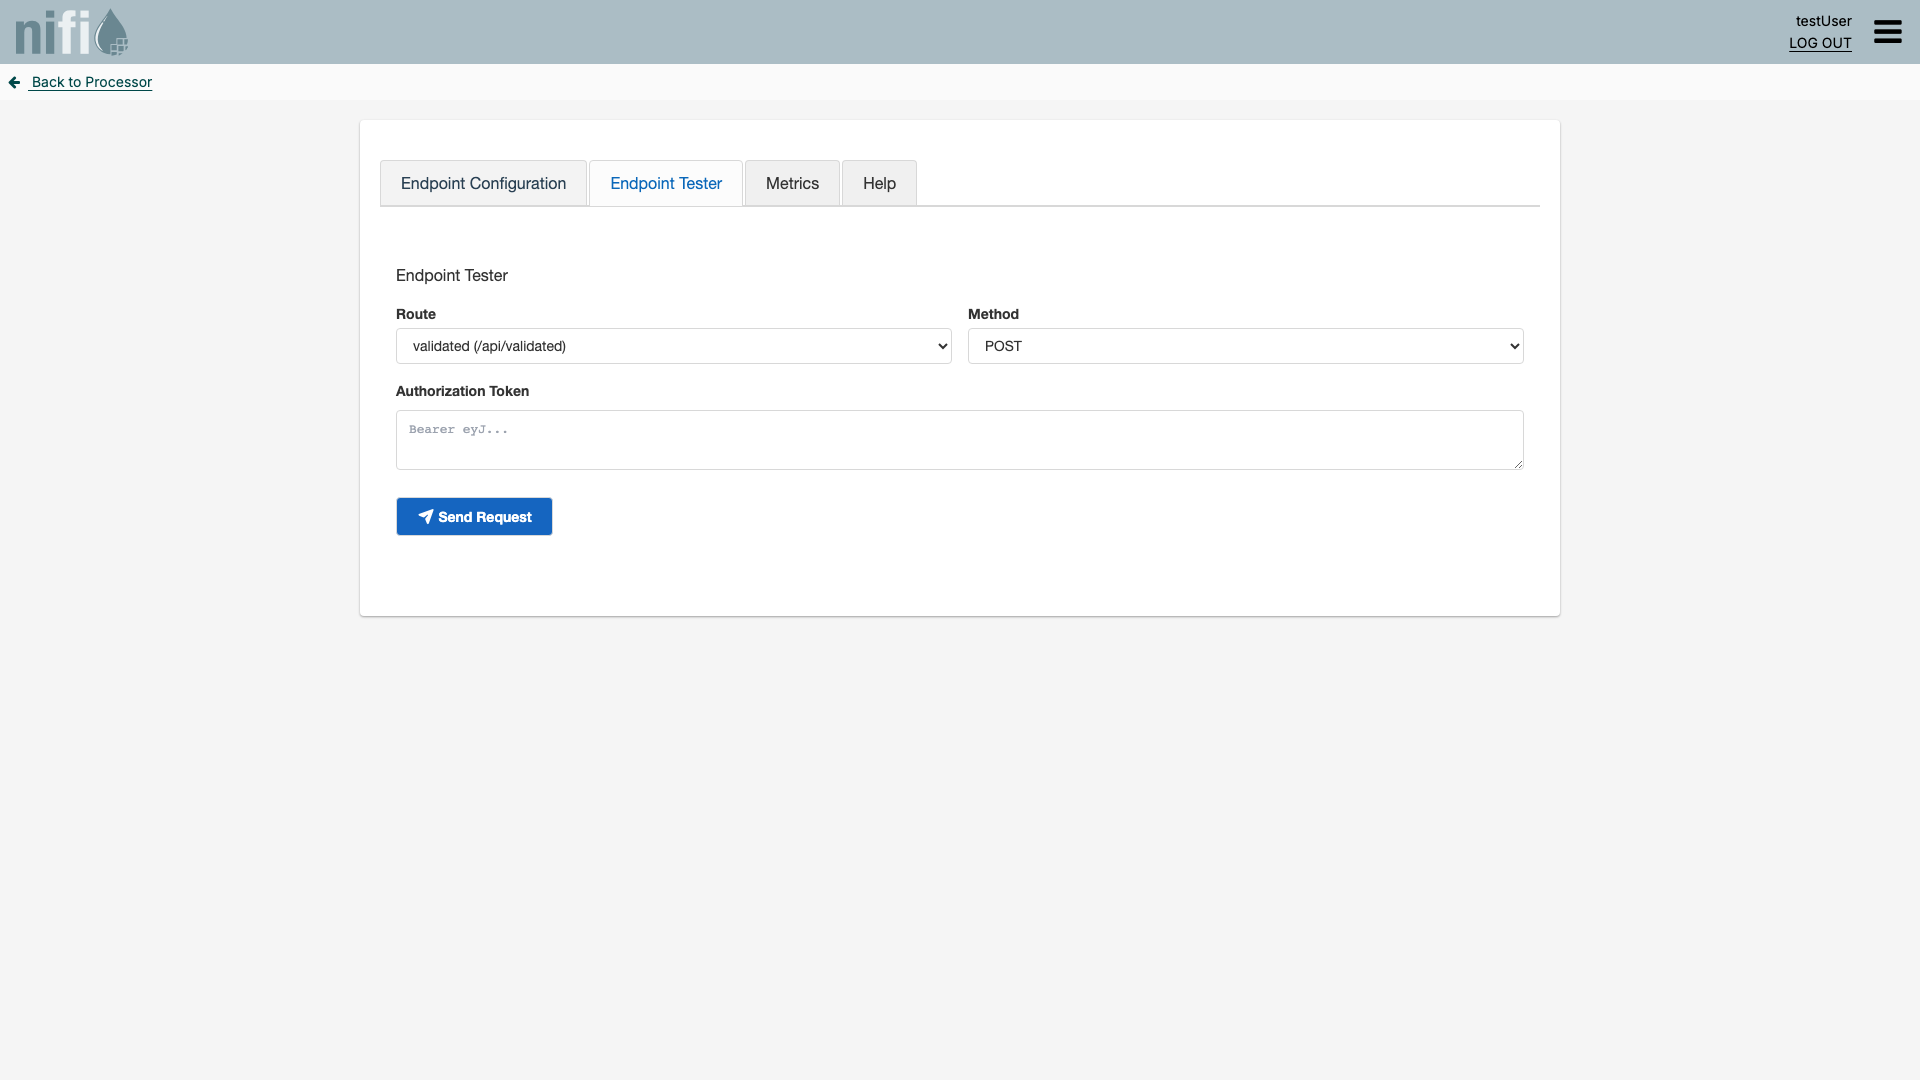
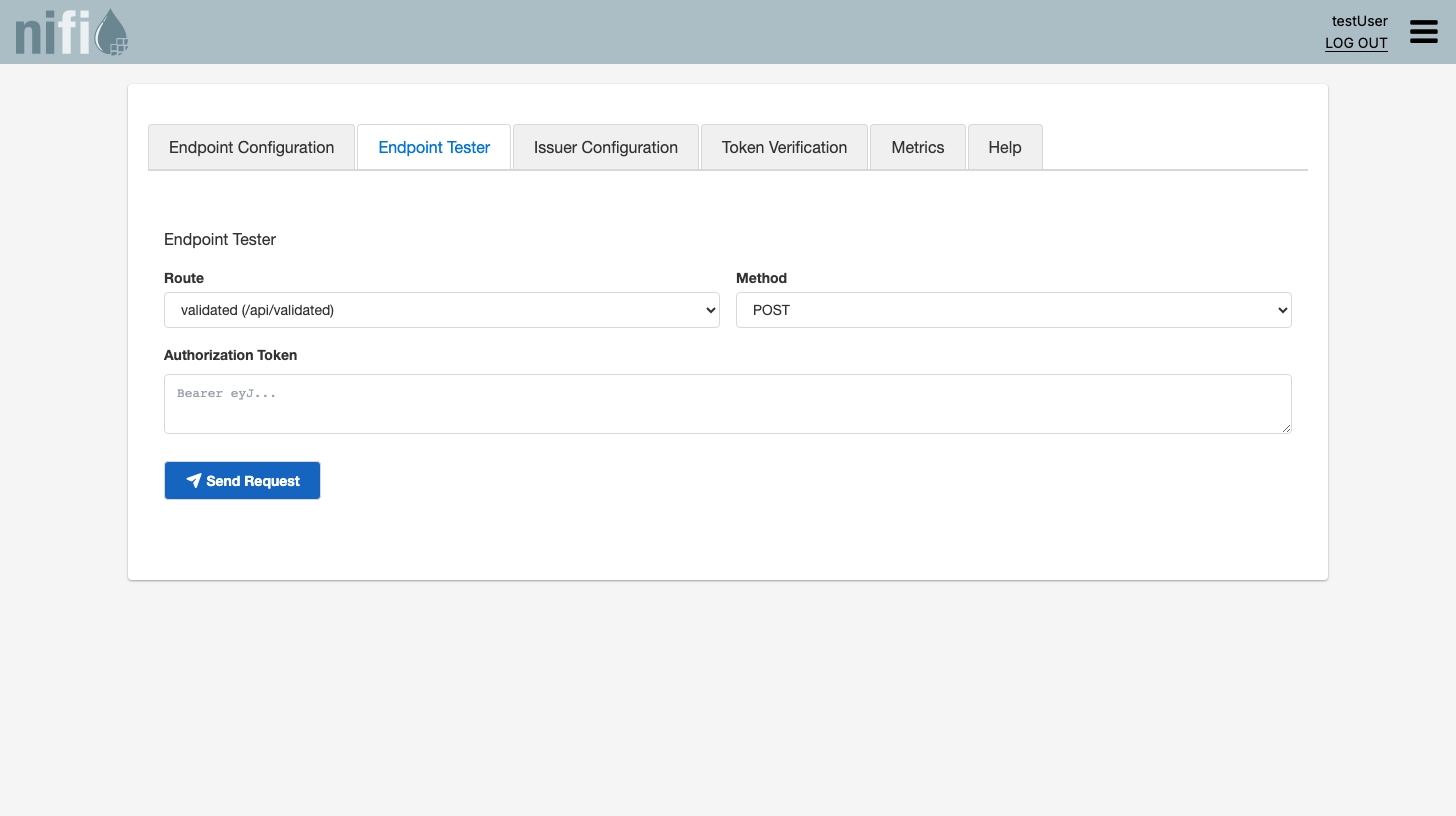
docs: update guides, screenshots, and specs for gateway Issuer Configuration and Token Verification tabs
Refresh all guide screenshots to reflect the 6-tab gateway UI, add new
screenshots for the Issuer Configuration and Token Verification tabs,
update QuickStart.adoc and IssuerConfigPropertiesGuide.adoc with correct
tab counts and new sections, fix stale credentials, and update the
configuration-ui, gateway-ui, and end-to-end-testing specifications.
Also adds the update-guide-screenshots skill for repeatable doc updates.

diff --git a/.claude/skills/update-guide-screenshots/SKILL.md b/.claude/skills/update-guide-screenshots/SKILL.md
@@ -1,0 +1,194 @@
+---
+name: update-guide-screenshots
+description: Verify NiFi custom UI tabs via Chrome and update doc/guides screenshots, guides, and specifications
+user-invocable: true
+allowed-tools: Bash, Read, Write, Edit, Glob, Grep, mcp__claude-in-chrome__*
+---
+
+# Update Guide Screenshots Skill
+
+Verifies the NiFi custom UI against existing documentation, takes fresh screenshots, and updates `doc/guides/` and `doc/specification/` content to match the current UI.
+
+## Parameters
+
+Optional argument selects the workflow:
+- `/update-guide-screenshots` — Full workflow: verify UI via Chrome, take screenshots, update docs
+- `/update-guide-screenshots verify` — Chrome-only: browse UI tabs and report differences (no file changes)
+- `/update-guide-screenshots screenshots` — Take screenshots only (Playwright headless, no Chrome needed)
+- `/update-guide-screenshots docs` — Update documentation text only (assumes screenshots are current)
+
+## Prerequisites
+
+- NiFi and Keycloak containers must be running. Use `/deploy start` if not.
+- For `verify` mode: Chrome browser with Claude-in-Chrome extension connected.
+- For `screenshots` and default mode: Playwright installed in `e-2-e-playwright/`.
+
+## Workflow
+
+### Step 1: Verify Containers Running
+
+```bash
+./integration-testing/src/main/docker/check-status.sh --quiet
+```
+
+If not healthy, instruct the user to run `/deploy start` first. Do NOT start containers from this skill.
+
+### Step 2: Read Current Documentation
+
+Read these files to understand the current documented state:
+- `doc/guides/QuickStart.adoc` — Main guide with processor and gateway documentation
+- `doc/guides/IssuerConfigPropertiesGuide.adoc` — Detailed issuer configuration walkthrough
+
+Also read all existing screenshot PNGs in `doc/guides/` to compare against the live UI.
+
+### Step 3: Verify UI via Chrome (for `verify` and default mode)
+
+Use Chrome browser automation to navigate the live NiFi UI and compare against documentation.
+
+#### 3a. Log in to NiFi
+
+1. Navigate to `https://localhost:9095/nifi/`
+2. Enter credentials: `testUser` / `drowssap`
+3. Click Log in
+4. Wait for canvas to load (URL contains `/process-groups/`)
+
+#### 3b. Inspect JWT Processor Custom UI
+
+1. From root canvas, double-click the **JWT Auth Pipeline** process group
+2. Right-click the **MultiIssuerJWTTokenAuthenticator** processor → click **Advanced**
+3. Wait for custom UI to load
+4. Verify and screenshot each tab:
+   - **Configuration** — Issuer form with Name, JWKS Source Type, Issuer URI, JWKS URL, Audience, Client ID
+   - **Token Verification** — Token input textarea, Verify Token / Clear buttons, Verification Results area
+   - **Metrics** — Shows "Metrics Not Available" message for JWT processor
+   - **Help** — Accordion sections: Getting Started, Issuer Configuration, Authorization Rules, Token Verification, Troubleshooting, Additional Resources
+5. Click **Back to Processor** to return
+
+#### 3c. Inspect REST API Gateway Custom UI
+
+1. Navigate to root canvas, double-click the **REST API Gateway** process group
+2. Right-click the **RestApiGateway** processor → click **Advanced**
+3. Wait for custom UI to load
+4. Verify and screenshot each tab:
+   - **Endpoint Configuration** — Global Settings table + route table with Name, Path, Methods, Enabled, Actions columns
+   - **Endpoint Tester** — Route dropdown, Method dropdown, Authorization Token textarea, Send Request button
+   - **Issuer Configuration** — Issuer table with Name, JWKS Source, Type, Issuer URI, Actions columns
+   - **Token Verification** — Same as JWT processor Token Verification
+   - **Metrics** — Gateway Metrics with Token Validation, HTTP Security, Gateway Events sections
+   - **Help** — REST API Gateway accordion with Key Features, Tabs listing, Troubleshooting, Additional Resources
+
+Also capture the **Route Editor** by clicking Edit on a route from the Endpoint Configuration tab.
+
+#### 3d. Report Differences
+
+Compare what was seen in Chrome against the existing screenshots and documentation text. Report:
+- New tabs not documented
+- Removed tabs still documented
+- Changed content/layout within tabs
+- Incorrect text descriptions
+
+### Step 4: Take Fresh Screenshots (for `screenshots` and default mode)
+
+Write a temporary Playwright script to `e-2-e-playwright/take-screenshots.mjs` and run it. The script must:
+
+1. Use `@playwright/test` (installed in `e-2-e-playwright/node_modules`)
+2. Launch headless Chromium with `--ignore-certificate-errors` and `ignoreHTTPSErrors: true`
+3. Set viewport to `1456 x 816` for consistent screenshot dimensions
+4. Log in via the NiFi login form (`testUser` / `drowssap`)
+5. Use the NiFi REST API (`/nifi-api/flow/process-groups/root`) to discover processor IDs
+6. Navigate to each processor's advanced UI via URL: `https://localhost:9095/nifi/#/process-groups/{pgId}/Processor/{procId}/advanced`
+7. Wait for the iframe to load and locate it with `page.waitForSelector('iframe')` + `contentFrame()`
+8. Click tabs WITHIN THE IFRAME using `frame.locator('a:visible').filter({ hasText: /^Tab Name$/ })`
+   - IMPORTANT: Use `:visible` filter — some tabs have hidden duplicates with class "hidden"
+9. Take `page.screenshot({ fullPage: true })` for each tab (captures the full NiFi shell including iframe)
+10. Save screenshots to `doc/guides/` with these exact filenames
+
+**JWT Processor screenshots:**
+
+| Filename | Tab | Notes |
+|----------|-----|-------|
+| `ui-configuration-tab.png` | Configuration | Default tab, shows issuer form |
+| `ui-token-verification-tab.png` | Token Verification | Empty token input state |
+
+**Gateway Processor screenshots:**
+
+| Filename | Tab | Notes |
+|----------|-----|-------|
+| `ui-gateway-endpoint-configuration.png` | Endpoint Configuration | Default tab, shows routes table |
+| `ui-gateway-route-editor.png` | Endpoint Configuration | After clicking Edit on first route |
+| `ui-gateway-endpoint-tester.png` | Endpoint Tester | Empty state |
+| `ui-gateway-endpoint-tester-response.png` | Endpoint Tester | After clicking Send Request |
+| `ui-gateway-issuer-configuration.png` | Issuer Configuration | Shows issuers table |
+| `ui-gateway-token-verification.png` | Token Verification | Empty token input state |
+| `ui-gateway-metrics.png` | Metrics | Shows Gateway Metrics sections |
+| `ui-gateway-help.png` | Help | Shows Component Help accordion |
+
+After the script runs successfully, delete the temporary `take-screenshots.mjs` file.
+
+### Step 5: Update Guide Documentation (for `docs` and default mode)
+
+Update `doc/guides/QuickStart.adoc` and `doc/guides/IssuerConfigPropertiesGuide.adoc` based on differences found:
+
+Common things to check and update:
+- **Tab counts and names** in gateway description (e.g., "four tabs" → "six tabs")
+- **Tab list** in gateway introduction paragraph
+- **New sections** for any tabs not yet documented (with `image::` directive and description)
+- **Removed sections** for tabs that no longer exist
+- **Screenshot references** — ensure every `image::` directive matches an actual file in `doc/guides/`
+- **Login credentials** — must be `testUser` / `drowssap` (not `admin/adminadminadmin`)
+- **Cross-reference anchors** — verify `link:` targets resolve correctly
+
+Do NOT change sections about tabs whose UI has not changed. Only update what is actually different.
+
+### Step 6: Update Specification Documentation (for `docs` and default mode)
+
+Review and update `doc/specification/` files to match the current UI state. The key files to check:
+
+#### 6a. `doc/specification/configuration-ui.adoc`
+
+- **Gateway Processor Tabs** section — must list all gateway tabs (Endpoint Configuration, Endpoint Tester, Issuer Configuration, Token Verification, Metrics, Help)
+- **JWT Processor Tabs** section — must list all JWT tabs (Configuration, Token Verification, Metrics, Help)
+- Tab toggling description must match the `configureTabsForType()` implementation in `app.js`
+
+#### 6b. `doc/specification/gateway-ui.adoc`
+
+- Purpose paragraph must mention all gateway tabs
+- Must have sections for each gateway-specific feature (Route Editor, Endpoint Tester, Issuer Configuration, Token Verification, etc.)
+- Related Topics must link to relevant specs (token-validation, configuration-ui, configuration)
+
+#### 6c. `doc/specification/end-to-end-testing.adoc`
+
+- **Gateway Tabs** verified scenarios must list all gateway tabs
+- Verified scenario items must cover all tabs tested in `06-verify-gateway-tabs.spec.js`
+
+Do NOT change specification sections that are unaffected by UI changes. Only update what is actually different.
+
+### Step 7: Report Summary
+
+Output a summary table showing:
+- Which screenshots were updated/added/unchanged
+- Which documentation sections were modified
+- Any issues found that require manual attention
+
+## Key Paths
+
+| Path | Purpose |
+|------|---------|
+| `doc/guides/QuickStart.adoc` | Main quick start guide |
+| `doc/guides/IssuerConfigPropertiesGuide.adoc` | Detailed issuer configuration guide |
+| `doc/guides/*.png` | Guide screenshots |
+| `doc/specification/configuration-ui.adoc` | UI configuration spec (tab lists, architecture) |
+| `doc/specification/gateway-ui.adoc` | Gateway custom UI spec (route editor, tester, issuer config, token verification) |
+| `doc/specification/end-to-end-testing.adoc` | E2E test spec (gateway tab verified scenarios) |
+| `e-2-e-playwright/` | Playwright project root (has `node_modules/`) |
+| `e-2-e-playwright/utils/constants.js` | Processor type names for API lookups |
+
+## Critical Rules
+
+- NEVER start or stop Docker containers — this skill only reads the running UI
+- ALWAYS delete the temporary `take-screenshots.mjs` after use
+- ALWAYS use `:visible` selector when clicking tabs in iframes (hidden duplicates exist)
+- Screenshots MUST use `fullPage: true` to capture the complete NiFi shell
+- The Playwright script MUST run from the `e-2-e-playwright/` directory (for `node_modules` resolution)
+- Do NOT update screenshots that haven't visually changed — compare before overwriting
+- NiFi custom UI loads inside an iframe on the `/advanced` URL — all tab interactions must target the iframe's `contentFrame()`
